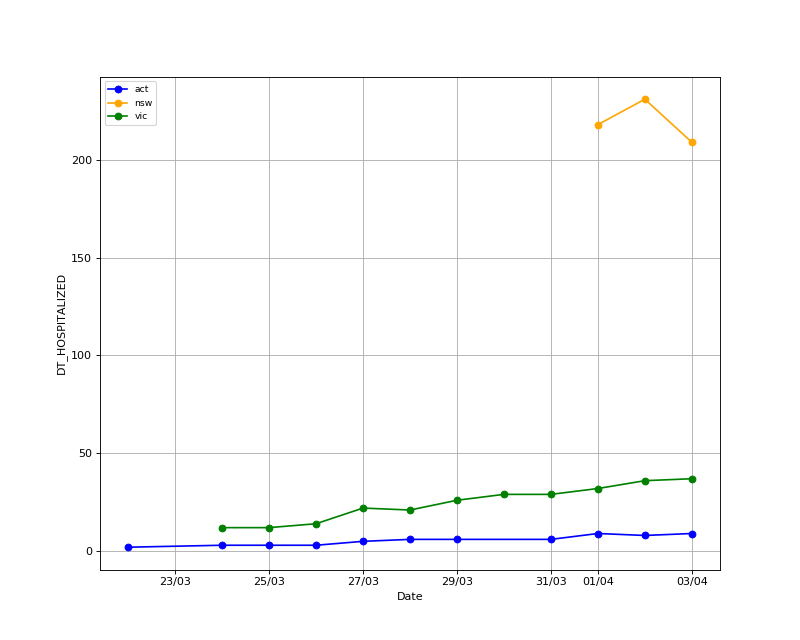
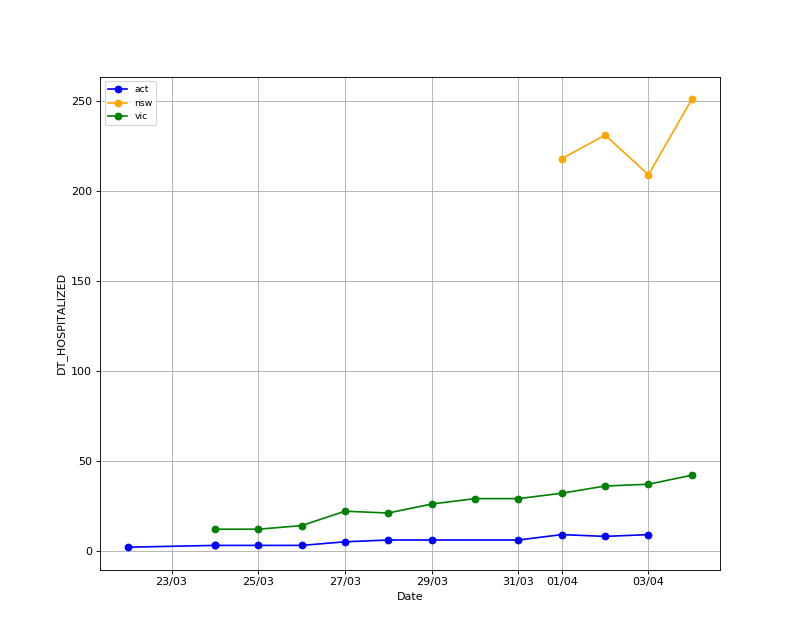
updated various graphs+added first wa regions total (even if only a single day's worth)

diff --git a/output_graphs/output_graphs.py b/output_graphs/output_graphs.py
@@ -1,3 +1,4 @@
+from os import listdir
 import csv
 import numpy as np
 import datetime
@@ -16,7 +17,15 @@ def read_csv(datatype,
 
     r = {}
 
-    with open('data.tsv') as f:
+    # Get the newest, based on binary sort order
+    # (year->month->day->revision id)
+    fnam = list(sorted(
+        listdir('../state_news_releases/output')
+    ))[-1]
+
+    with open(f'../state_news_releases/output/{fnam}',
+              'r', encoding='utf-8', errors='replace') as f:
+
         reader = csv.DictReader(f, delimiter='\t')
 
         for row in reader:
@@ -141,6 +150,12 @@ if __name__ == '__main__':
                  name_filter=lambda p: p[0].lower() < 'm',
                  append_to_name='a-l')
     output_graph('DT_CASES_BY_REGION', state_filter='vic',
+                 name_filter=lambda p: p[0].lower() >= 'm',
+                 append_to_name='m-z')
+    output_graph('DT_CASES_BY_REGION', state_filter='wa',
+                 name_filter=lambda p: p[0].lower() < 'm',
+                 append_to_name='a-l')
+    output_graph('DT_CASES_BY_REGION', state_filter='wa',
                  name_filter=lambda p: p[0].lower() >= 'm',
                  append_to_name='m-z')
     output_graph('DT_CASES_BY_REGION', state_filter='nsw')
